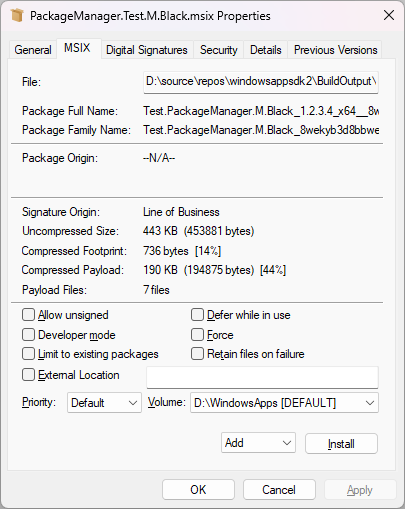
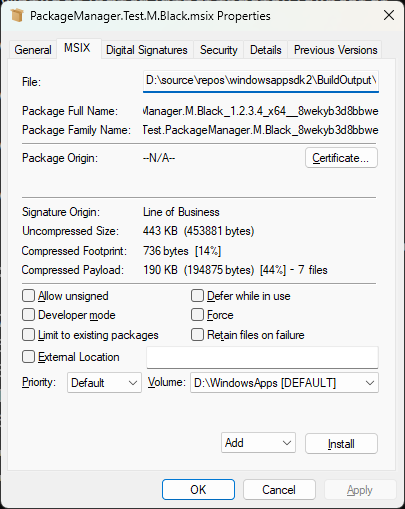
Updated documenation

diff --git a/README.md b/README.md
@@ -42,17 +42,17 @@ MSIX files.
 
 ![New .msix file, Add options](docs/images/MSIXPropertySheet/MSIX-1.png)
 
-#2 MSIX tab for a new .msix file. Install button will Stage the package.
+#2 MSIX tab for a Staged package.
 
-![New .msix file, Stage options](docs/images/MSIXPropertySheet/MSIX-2.png)
+![.msix file is Staged](docs/images/MSIXPropertySheet/MSIX-2.png)
 
-#3 MSIX tab for a Staged package.
+#3 MSIX tab for a Registered  package.
 
-![.msix file is Staged](docs/images/MSIXPropertySheet/MSIX-3.png)
+![.msix file is Registered](docs/images/MSIXPropertySheet/MSIX-3.png)
 
-#4 MSIX tab for a Registered  package.
+#4 Certificate dialog.
 
-![.msix file is Registered](docs/images/MSIXPropertySheet/MSIX-4.png)
+![.msix certificate details and actions](docs/images/MSIXPropertySheet/MSIX-4.png)
 
 ## Common Issues
 
